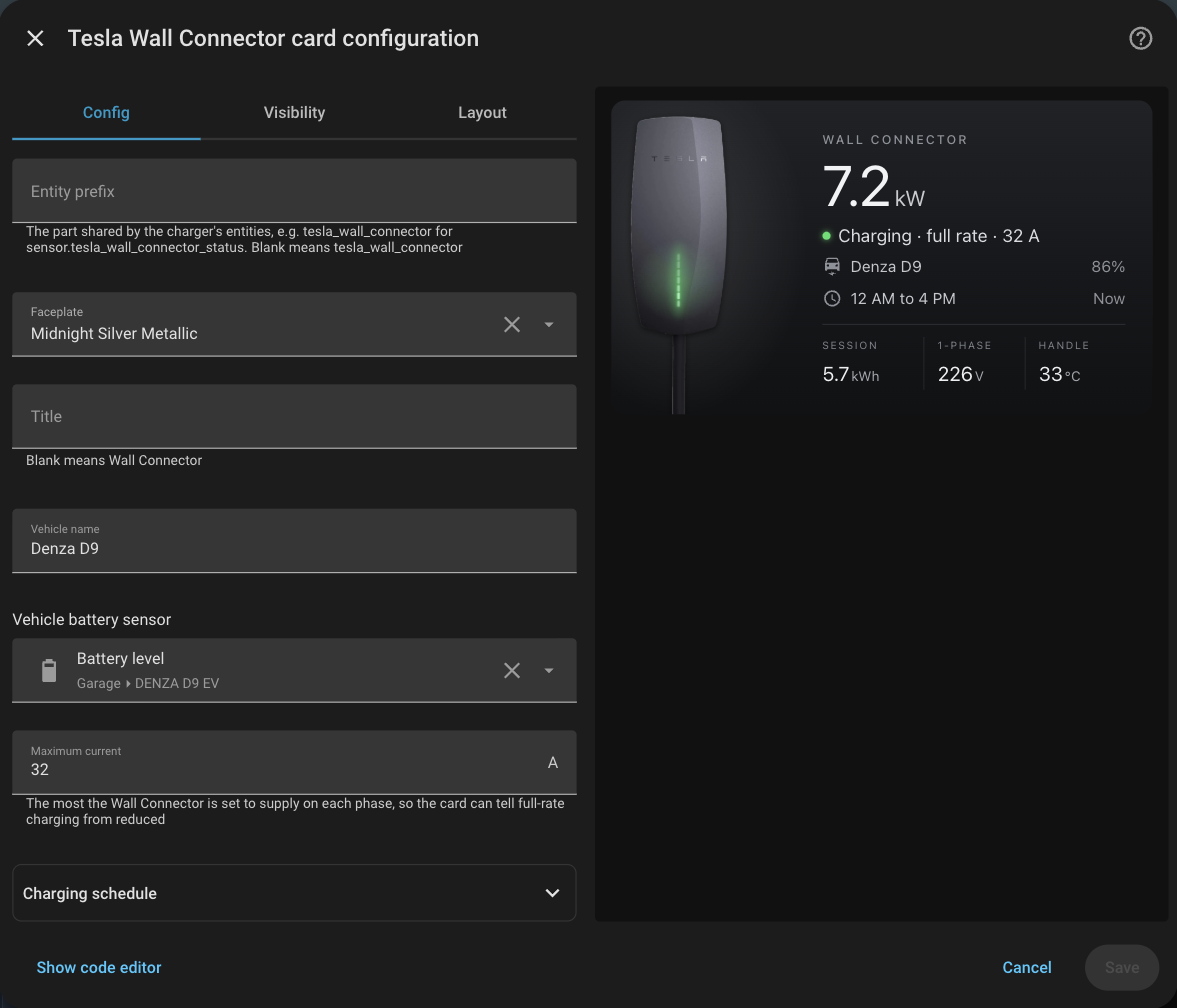
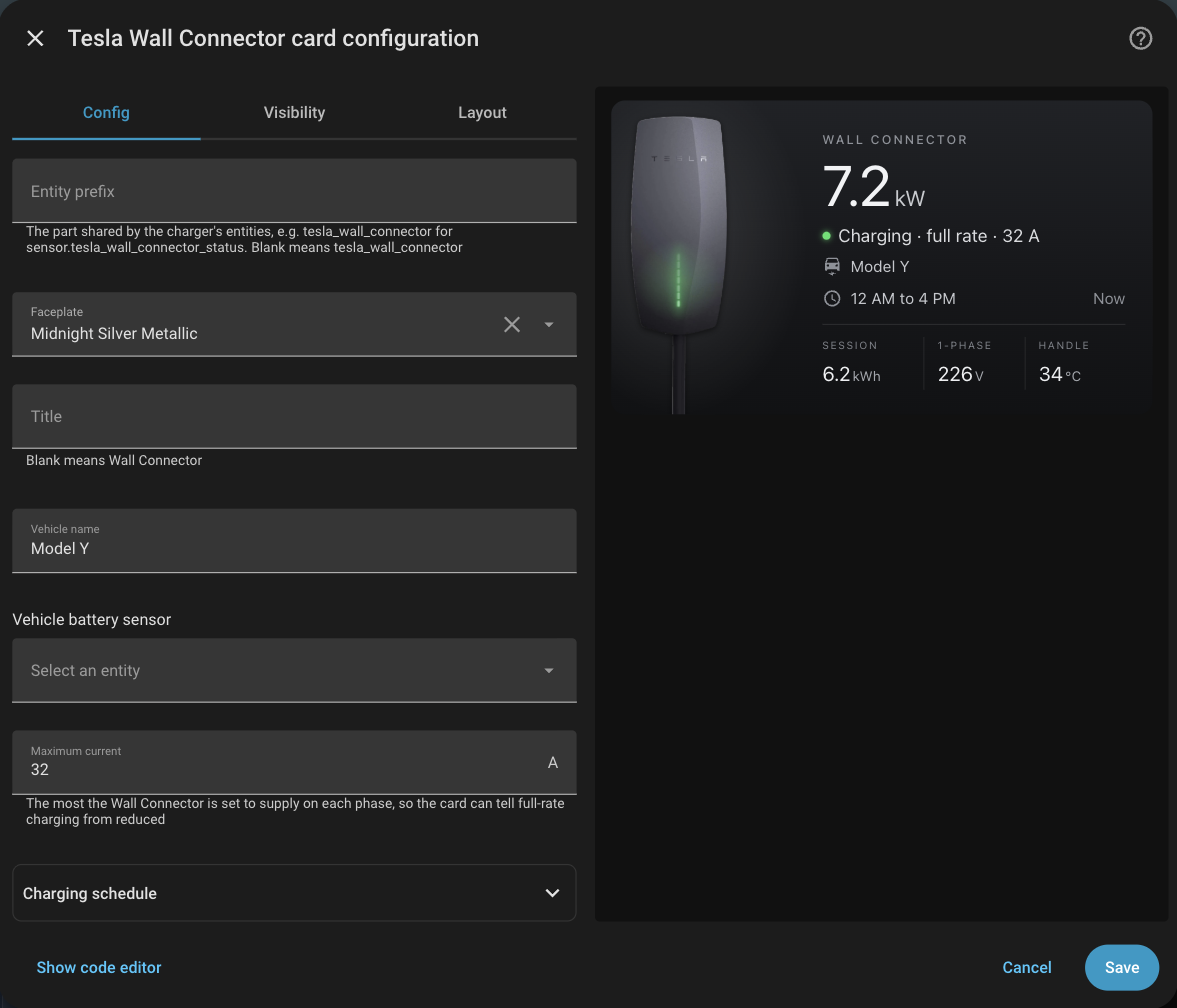
Dim the unlit lights while charging, and neutral values in the editor shot
- The streaming light bar's unlit lights drop to 2% between pulses (from
  18%), so the green stream reads more clearly, as on the real charger
- docs/editor.png re-taken with a placeholder car (Model Y, no battery
  sensor) instead of a real install's vehicle and entities
- README images re-rendered; the idle and waiting shots and the faceplate
  sheet change only in font rendering

diff --git a/dist/tesla-wall-connector-card.js b/dist/tesla-wall-connector-card.js
@@ -9,7 +9,7 @@
  * Light codes are from Tesla's Wall Connector 3 install manual (APAC), "Wall Connector LEDs".
  */
 (() => {   // keep everything out of the page's global scope
-  const TWC_CARD_VERSION = '1.1.1';
+  const TWC_CARD_VERSION = '1.1.2';
 
   // Tesla's faceplates: the standard white glass one and the four colour-matched ones. Each has two
   // photos: handle docked, and handle out (in a car). Every photo is framed the same way.
@@ -105,7 +105,8 @@
 
     .led.on { opacity: 1; }
     .led.stream { animation: stream 1.6s linear infinite; }
-    @keyframes stream { 0% { opacity: .18; } 18% { opacity: 1; } 45% { opacity: .5; } 100% { opacity: .18; } }
+    /* the unlit lights all but go out between pulses, so the stream reads clearly */
+    @keyframes stream { 0% { opacity: .02; } 18% { opacity: 1; } 45% { opacity: .35; } 100% { opacity: .02; } }
     .led.blink2 { animation: blink2 2.2s steps(1, end) infinite; }
     @keyframes blink2 { 0% { opacity: 1; } 12% { opacity: 0; } 24% { opacity: 1; } 36% { opacity: 0; } 100% { opacity: 0; } }
     .halo.stream { animation: halo 3.2s ease-in-out infinite; }

diff --git a/src/tesla-wall-connector-card.js b/src/tesla-wall-connector-card.js
@@ -8,7 +8,7 @@
  * Light codes are from Tesla's Wall Connector 3 install manual (APAC), "Wall Connector LEDs".
  */
 (() => {   // keep everything out of the page's global scope
-  const TWC_CARD_VERSION = '1.1.1';
+  const TWC_CARD_VERSION = '1.1.2';
 
   // Tesla's faceplates: the standard white glass one and the four colour-matched ones. Each has two
   // photos: handle docked, and handle out (in a car). Every photo is framed the same way.
@@ -104,7 +104,8 @@
 
     .led.on { opacity: 1; }
     .led.stream { animation: stream 1.6s linear infinite; }
-    @keyframes stream { 0% { opacity: .18; } 18% { opacity: 1; } 45% { opacity: .5; } 100% { opacity: .18; } }
+    /* the unlit lights all but go out between pulses, so the stream reads clearly */
+    @keyframes stream { 0% { opacity: .02; } 18% { opacity: 1; } 45% { opacity: .35; } 100% { opacity: .02; } }
     .led.blink2 { animation: blink2 2.2s steps(1, end) infinite; }
     @keyframes blink2 { 0% { opacity: 1; } 12% { opacity: 0; } 24% { opacity: 1; } 36% { opacity: 0; } 100% { opacity: 0; } }
     .halo.stream { animation: halo 3.2s ease-in-out infinite; }
